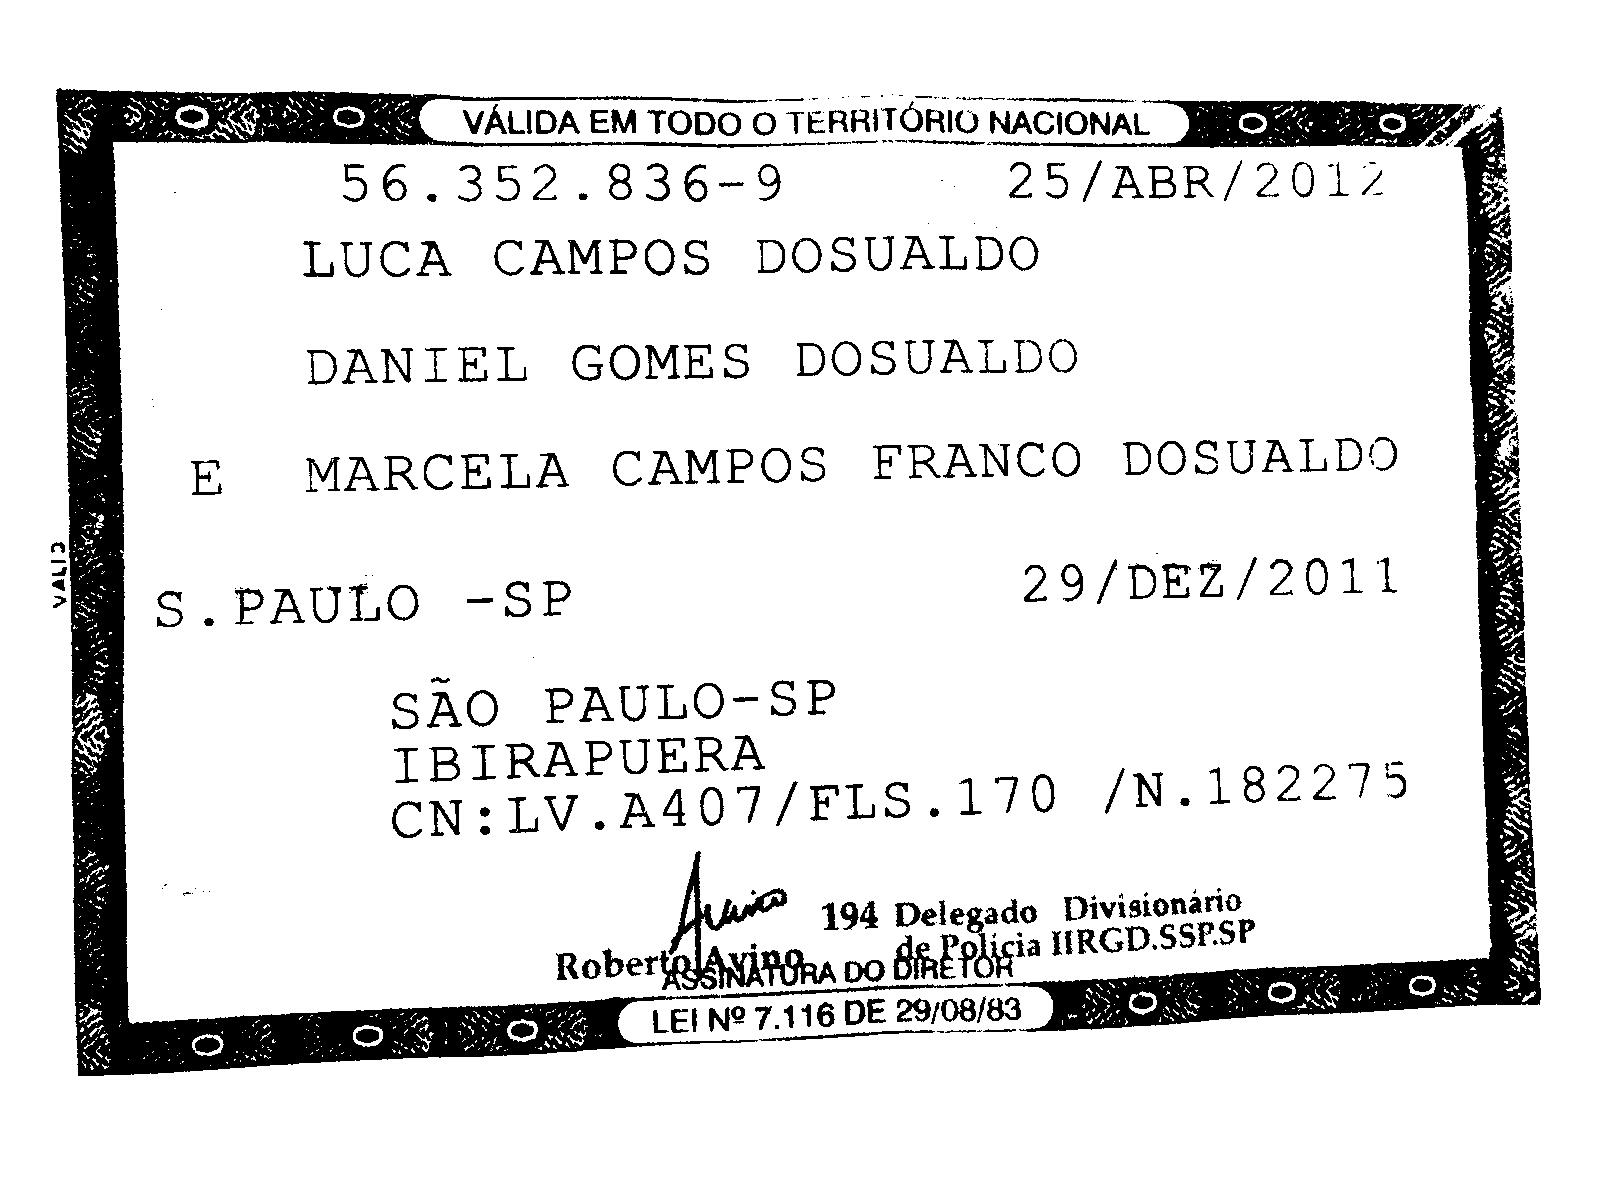
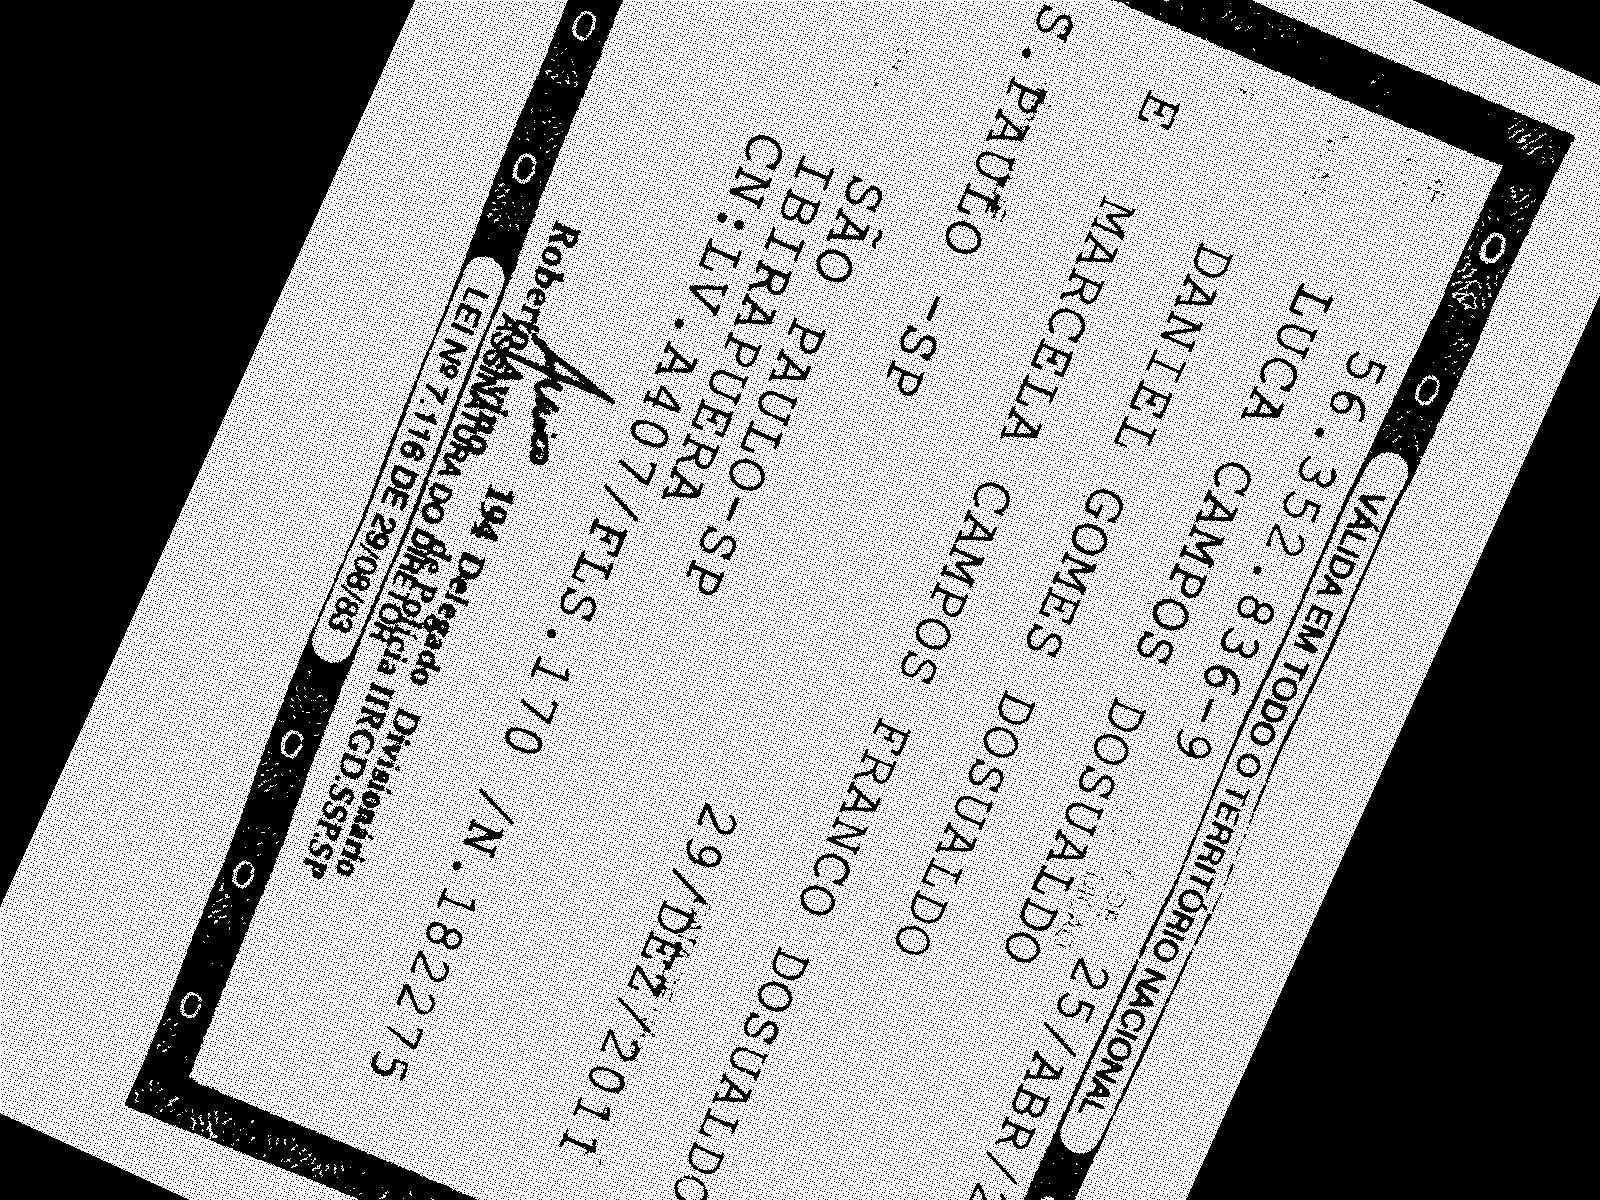
main: rotation test

diff --git a/main.go b/main.go
@@ -1,12 +1,13 @@
 package main
 
 import (
-	"github.com/GuilhermeCaruso/snip/tools"
-	//"fmt"
-
+	"image"
 	"image/jpeg"
 	"log"
+	"math"
 	"os"
+
+	"github.com/GuilhermeCaruso/snip/tools"
 )
 
 func main() {
@@ -21,13 +22,30 @@ func main() {
 		log.Fatal(os.Stderr, "%s: %v\n", "flower.jpg", err)
 	}
 
-	usedImg := tools.Threshold(img, 90)
+	bounds := img.Bounds()
+	newIMG := image.NewRGBA(bounds)
+
+	// Loop in all reference and new image pixels
+	for y := 0; y < bounds.Max.Y; y++ {
+		for x := 0; x < bounds.Max.X; x++ {
+			actualPixel := img.At(x, y)
+
+			newIMG.Set(int(math.Cos(2)*(float64(x-bounds.Max.X/2))-math.Sin(2)*(float64(y-bounds.Max.Y/2))+float64(bounds.Max.X/2)), int(math.Sin(2)*(float64(x-bounds.Max.X/2))+math.Cos(2)*(float64(y-bounds.Max.Y/2))+float64(bounds.Max.Y/2)), actualPixel)
+
+		}
+	}
+
+	teste := tools.Threshold(newIMG, 100)
+
+	// fmt.Println((float64(300) * math.Cos(0.1)) - (float64(300) * math.Sin(0.1)))
+	// fmt.Println((float64(300) * math.Sin(0.1)) + (float64(300) * math.Cos(0.1)))
+	// flippedImg := image.NewRGBA(image.Rectangle{image.Point{0, 0}, image.Point{10.10, 1600}})
 
 	outFile, err := os.Create("changed.jpg")
 	if err != nil {
 		log.Fatal(err)
 	}
 	defer outFile.Close()
-	jpeg.Encode(outFile, usedImg, nil)
+	jpeg.Encode(outFile, teste, nil)
 
 }
